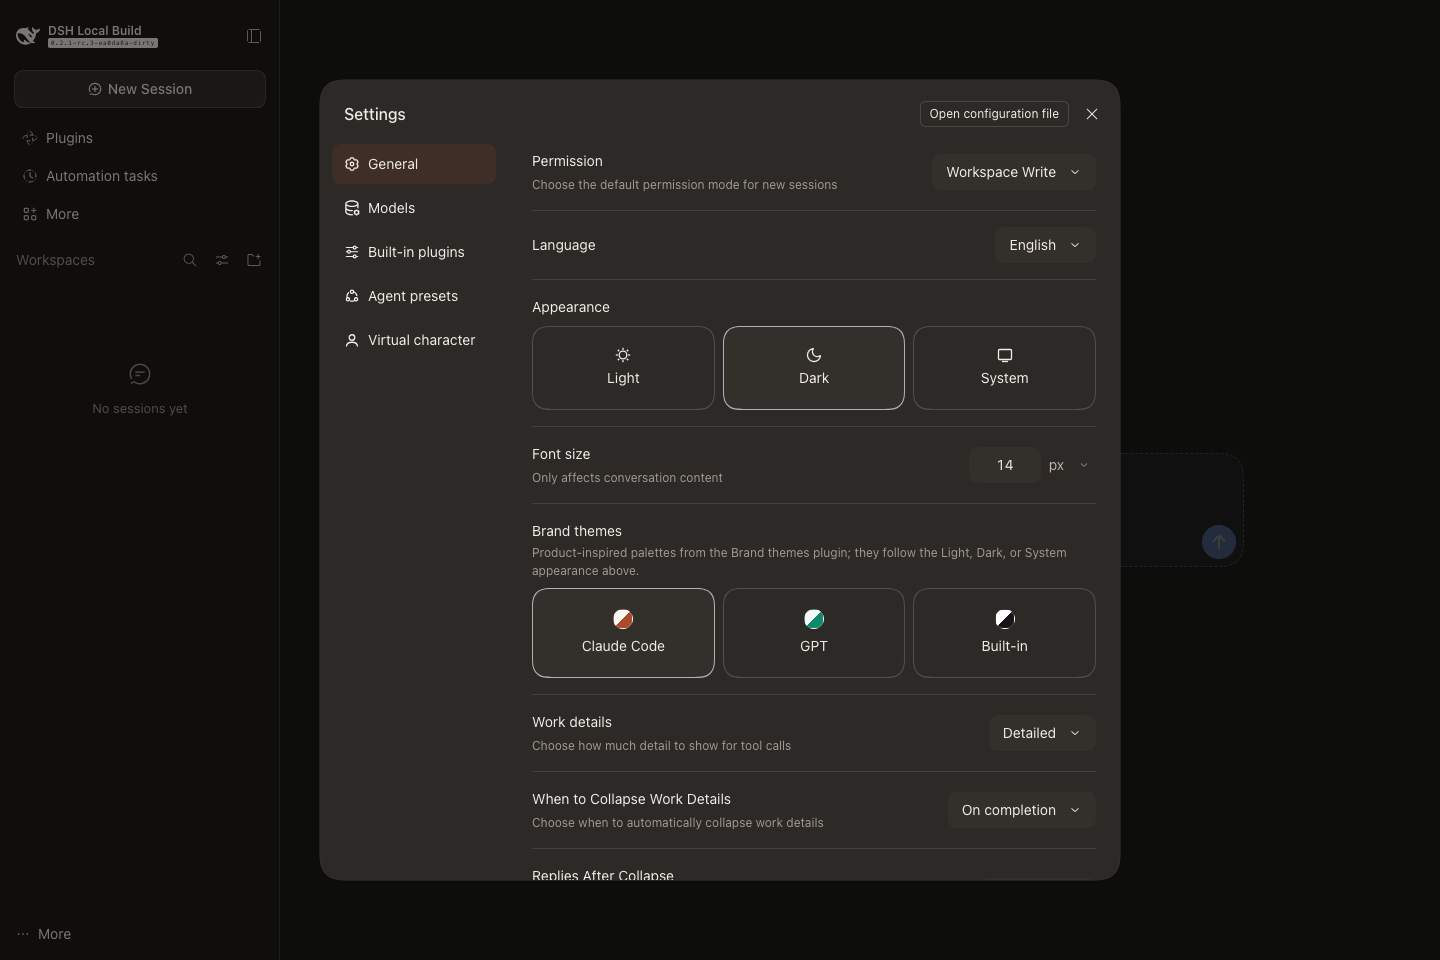
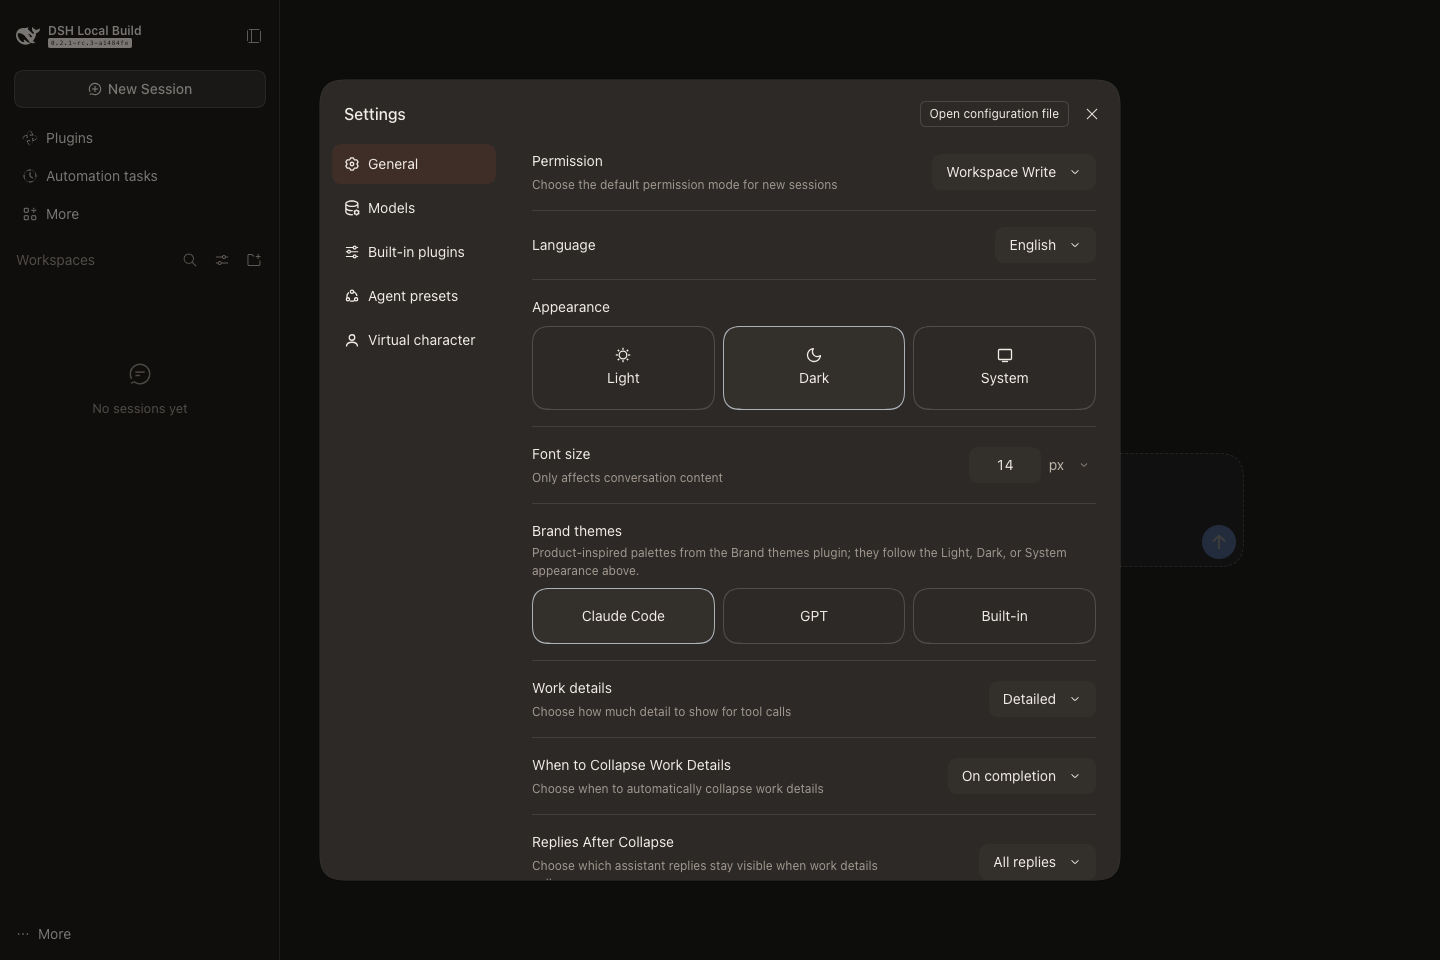
fix(plugins): show brand theme names without swatches
Drop the canvas/accent swatch discs from the Brand themes settings row so
each cube carries only its brand name, and refresh the plugin screenshots.

diff --git a/plugins/dsh-theme-claude-gpt/client.js b/plugins/dsh-theme-claude-gpt/client.js
@@ -116,13 +116,11 @@ window.__ModuleLoader__.load({
       return pairs
     }
 
-    /** One selectable brand theme: id, settings label, swatch colors, override pairs. */
+    /** One selectable brand theme: id, settings label, and override pairs. */
     function brandTheme(id, labelKey, light, dark) {
       return {
         id,
         labelKey,
-        canvas: light.canvas,
-        accent: light.accent,
         pairs: overlayPairs({ light, dark }),
       }
     }
@@ -231,10 +229,9 @@ window.__ModuleLoader__.load({
       '.dsh-brand-theme-title { font-size: 14px; font-weight: 400; line-height: 22px; color: var(--dsw-alias-label-primary); }',
       '.dsh-brand-theme-description { font-size: 12px; line-height: 18px; color: var(--dsw-alias-label-tertiary); }',
       '.dsh-brand-theme-cubes { display: flex; align-items: stretch; gap: 8px; flex-wrap: wrap; }',
-      '.dsh-brand-theme-cube { box-sizing: border-box; flex: 1 1 160px; display: flex; flex-direction: column; align-items: center; justify-content: center; gap: 6px; padding: 20px 24px; border: 0.5px solid var(--dsw-alias-border-l4); border-radius: var(--dsw-radius-xl); background: transparent; font: inherit; font-size: 14px; line-height: 22px; color: var(--dsw-alias-label-primary); cursor: pointer; }',
+      '.dsh-brand-theme-cube { box-sizing: border-box; flex: 1 1 160px; display: flex; align-items: center; justify-content: center; padding: 16px 24px; border: 0.5px solid var(--dsw-alias-border-l4); border-radius: var(--dsw-radius-xl); background: transparent; font: inherit; font-size: 14px; line-height: 22px; color: var(--dsw-alias-label-primary); cursor: pointer; }',
       '@media (hover: hover) { .dsh-brand-theme-cube:hover:not(.dsh-brand-theme-cube-selected) { background: var(--dsw-alias-interactive-bg-hover); } }',
       '.dsh-brand-theme-cube-selected { background: var(--dsw-alias-bg-module-platform); border-color: var(--dsw-static-neutral-bluish-400); }',
-      '.dsh-brand-theme-swatch { box-sizing: border-box; width: 20px; height: 20px; border-radius: 50%; corner-shape: round; border: 0.5px solid var(--dsw-alias-border-l4); }',
       '@media (max-width: 767px) { html:not([data-windows-titlebar]):not([data-platform=\'darwin\']) .dsh-brand-theme-cube { flex: 1 1 0; padding: 12px 6px; } }',
     ].join('\n')
 
@@ -296,32 +293,14 @@ window.__ModuleLoader__.load({
     /** Applies the selection in this page; persistence is the caller's concern. */
     let renderBrandTheme = () => {}
 
-    /** Swatch disc showing one theme's canvas and accent colors. */
-    function Swatch({ theme }) {
-      return h('span', {
-        className: 'dsh-brand-theme-swatch',
-        style: { background: `linear-gradient(135deg, ${theme.canvas} 50%, ${theme.accent} 50%)` },
-        'aria-hidden': true,
-      })
-    }
-
-    /** Swatch showing the built-in light/dark pair. */
-    function DefaultSwatch() {
-      return h('span', {
-        className: 'dsh-brand-theme-swatch',
-        style: { background: 'linear-gradient(135deg, #ffffff 50%, #151517 50%)' },
-        'aria-hidden': true,
-      })
-    }
-
-    /** One settings cube: swatch, label, and pressed state. */
-    function Cube({ id, label, visual, selected, onSelect }) {
+    /** One settings cube: label and pressed state. */
+    function Cube({ id, label, selected, onSelect }) {
       return h('button', {
         type: 'button',
         className: selected ? 'dsh-brand-theme-cube dsh-brand-theme-cube-selected' : 'dsh-brand-theme-cube',
         'aria-pressed': selected,
         onClick: () => { onSelect(id) },
-      }, visual, label)
+      }, label)
     }
 
     /**
@@ -341,7 +320,6 @@ window.__ModuleLoader__.load({
             key: theme.id,
             id: theme.id,
             label: t(theme.labelKey),
-            visual: h(Swatch, { theme }),
             selected: active === theme.id,
             // Clicking the selected cube returns to the built-in appearance.
             onSelect: selectBrandTheme,
@@ -350,7 +328,6 @@ window.__ModuleLoader__.load({
             key: 'default',
             id: null,
             label: t('label.default'),
-            visual: h(DefaultSwatch),
             selected: active === null,
             onSelect: selectBrandTheme,
           })))
